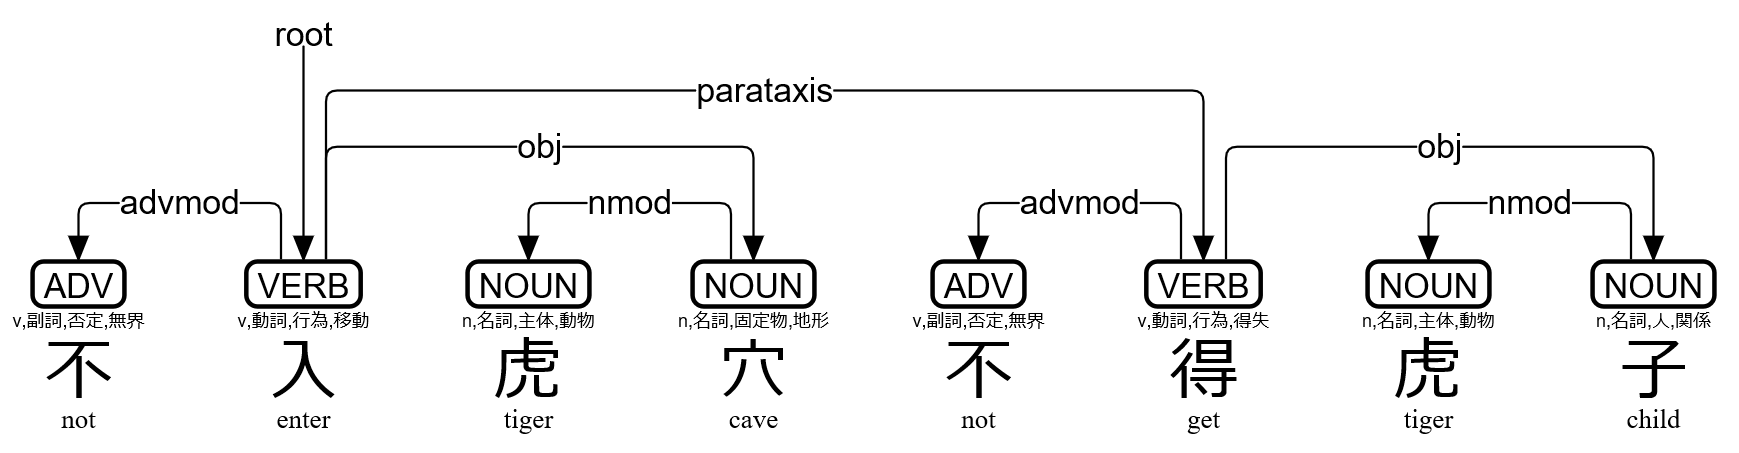
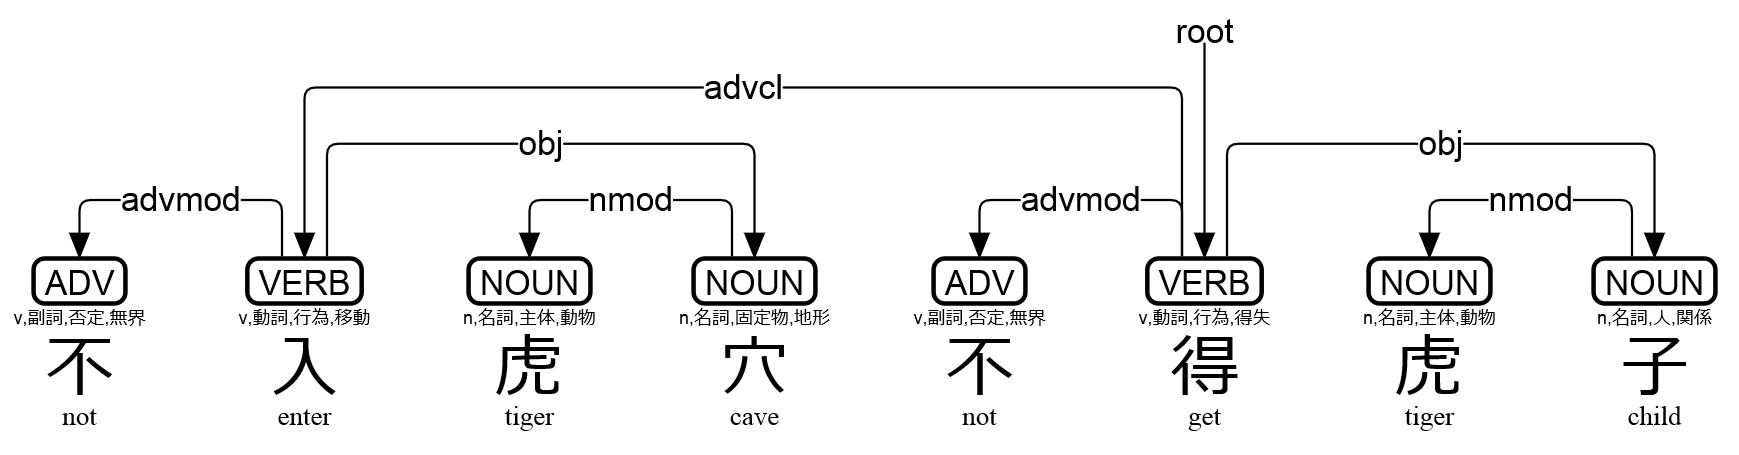
demo example changed

diff --git a/README.md b/README.md
@@ -13,11 +13,11 @@ Tokenizer, POS-Tagger, and Dependency-Parser for Classical Chinese Texts (漢文
 >>> print(s)
 # text = 不入虎穴不得虎子
 1	不	不	ADV	v,副詞,否定,無界	Polarity=Neg	2	advmod	_	Gloss=not|SpaceAfter=No
-2	入	入	VERB	v,動詞,行為,移動	_	0	root	_	Gloss=enter|SpaceAfter=No
+2	入	入	VERB	v,動詞,行為,移動	_	6	advcl	_	Gloss=enter|SpaceAfter=No
 3	虎	虎	NOUN	n,名詞,主体,動物	_	4	nmod	_	Gloss=tiger|SpaceAfter=No
 4	穴	穴	NOUN	n,名詞,固定物,地形	Case=Loc	2	obj	_	Gloss=cave|SpaceAfter=No
 5	不	不	ADV	v,副詞,否定,無界	Polarity=Neg	6	advmod	_	Gloss=not|SpaceAfter=No
-6	得	得	VERB	v,動詞,行為,得失	_	2	parataxis	_	Gloss=get|SpaceAfter=No
+6	得	得	VERB	v,動詞,行為,得失	_	0	root	_	Gloss=get|SpaceAfter=No
 7	虎	虎	NOUN	n,名詞,主体,動物	_	8	nmod	_	Gloss=tiger|SpaceAfter=No
 8	子	子	NOUN	n,名詞,人,関係	_	6	obj	_	Gloss=child|SpaceAfter=No
 
@@ -27,11 +27,11 @@ Tokenizer, POS-Tagger, and Dependency-Parser for Classical Chinese Texts (漢文
 
 >>> print(s.to_tree())
 不 <┐     advmod
-入 ─┴─┬─┐ root
+入 ─┴─┐<┐ advcl
 虎 <┐ │ │ nmod
 穴 ─┘<┘ │ obj
 不 <┐   │ advmod
-得 ─┴─┐<┘ parataxis
+得 ─┴─┬─┘ root
 虎 <┐ │   nmod
 子 ─┘<┘   obj
 
